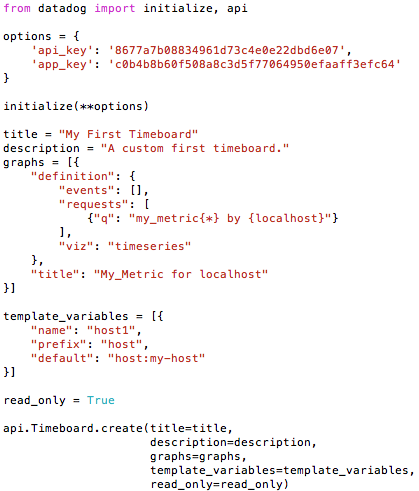
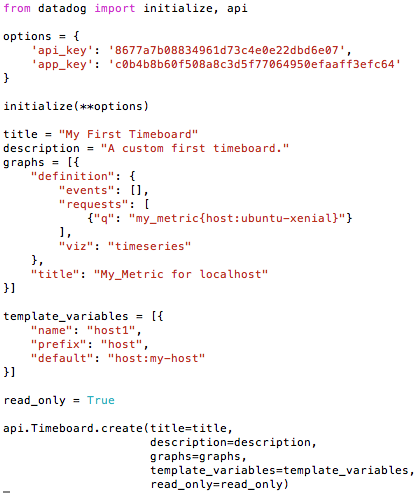
Fixed 2_1.

diff --git a/datadog/answers.md b/datadog/answers.md
@@ -297,7 +297,7 @@ From my example timeboard, I'll start building each feature that will get added 
     dog timeboard show_all
     dog timeboard delete <timeboard id>
 
-I was able to correctly graph my_metric: under the **arguments** listed for Creating a Timeboard, under **graphs**, the proper **definition** syntax is listed for graphing a metric for a given host:
+I was able to correctly graph my_metric: under the **arguments** listed for Creating a Timeboard, under **graphs**, the proper **definition** syntax is listed for graphing a metric for a given host. After building this request definition more or less by intuition (and some trial and error), I found the very helpful Graphing Primer using JSON [guide](https://docs.datadoghq.com/graphing/miscellaneous/graphingjson/). I discovered my syntax for scoping by host was a little off, and instead wrote this:
 
 ![Python with Metric added](images/2_1_MetricAdded.png)
 
@@ -305,7 +305,15 @@ This yields the timeboard:
 
 ![Python with Metric added](images/2_1_Timeboard.png)
 
+
+
 ### - Any metric from the Integration on your Database with the anomaly function applied.
+
+
+
+
+https://docs.datadoghq.com/graphing/#scope
+"q": "avg:system.disk.free{*}.rollup(avg, 60)"
 
 
 
